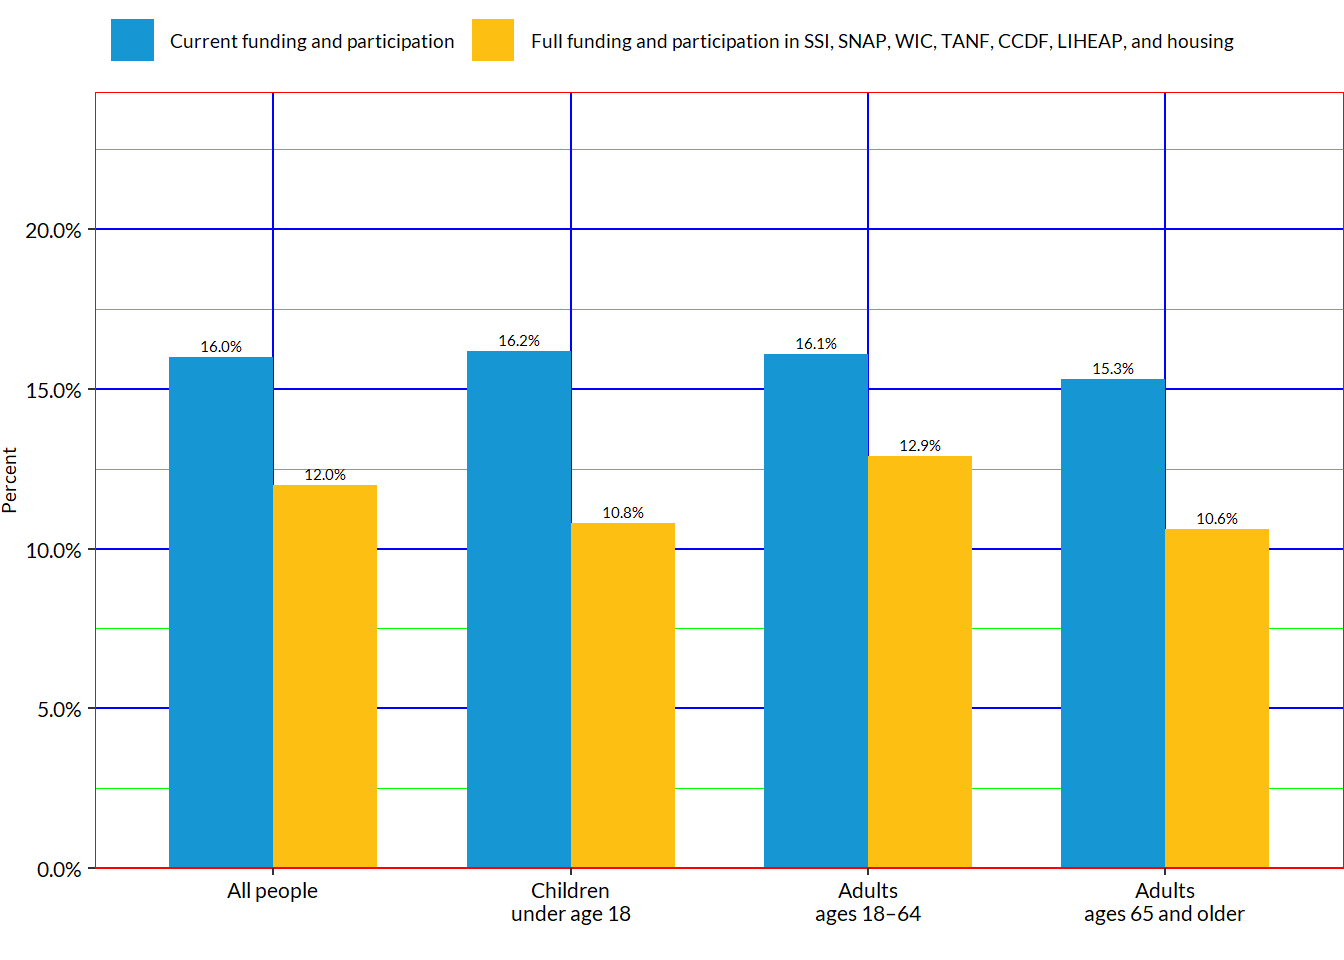
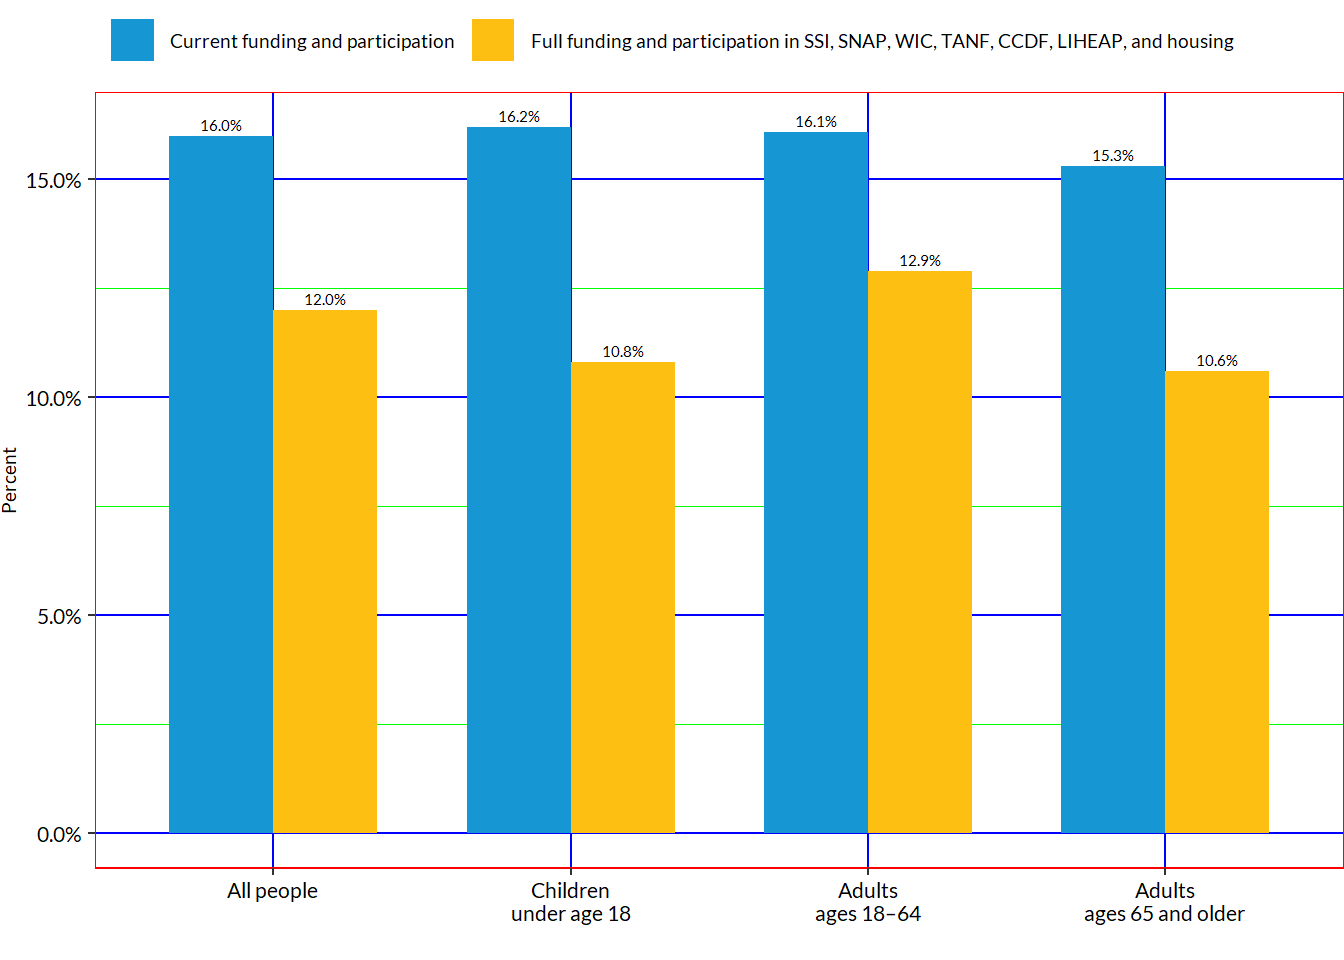
Correcting mistakes in R figures page

diff --git a/docs/editing-figures-in-r.html b/docs/editing-figures-in-r.html
@@ -504,8 +504,8 @@ Figure&nbsp;1
 <span id="cb7-9"><a href="#cb7-9"></a>            <span class="at">size =</span> <span class="dv">5</span>,</span>
 <span id="cb7-10"><a href="#cb7-10"></a>            <span class="at">color =</span> <span class="st">"red"</span>, </span>
 <span id="cb7-11"><a href="#cb7-11"></a>            <span class="at">family =</span> <span class="st">"Lato"</span>) <span class="sc">+</span></span>
-<span id="cb7-12"><a href="#cb7-12"></a>  <span class="fu">scale_y_continuous</span>(<span class="at">expand =</span> <span class="fu">expansion</span>(<span class="at">mult =</span> <span class="dv">0</span>),</span>
-<span id="cb7-13"><a href="#cb7-13"></a>                     <span class="at">limits =</span> <span class="fu">c</span>(<span class="dv">0</span>, <span class="fu">max</span>(df_fig2_long<span class="sc">$</span>Value) <span class="sc">*</span> <span class="fl">1.5</span>), </span>
+<span id="cb7-12"><a href="#cb7-12"></a>  <span class="fu">scale_y_continuous</span>(</span>
+<span id="cb7-13"><a href="#cb7-13"></a>                     <span class="at">limits =</span> <span class="fu">c</span>(<span class="dv">0</span>, <span class="fu">max</span>(df_fig2_long<span class="sc">$</span>Value) <span class="sc">*</span> <span class="dv">1</span>), </span>
 <span id="cb7-14"><a href="#cb7-14"></a>                     <span class="at">labels =</span> decimal_to_percentage) <span class="sc">+</span></span>
 <span id="cb7-15"><a href="#cb7-15"></a>  <span class="fu">theme_bw</span>() <span class="sc">+</span></span>
 <span id="cb7-16"><a href="#cb7-16"></a>  <span class="fu">theme</span>(<span class="at">legend.position =</span> <span class="st">"top"</span>, </span>

diff --git a/docs/editing-zotero-citations-in-r.html b/docs/editing-zotero-citations-in-r.html
@@ -166,12 +166,6 @@ background-size: cover;
 </li>
         <li class="sidebar-item">
   <div class="sidebar-item-container"> 
-  <a href="./editing-in-r-markdown.html" class="sidebar-item-text sidebar-link">
- <span class="menu-text">Editing in R Markdown</span></a>
-  </div>
-</li>
-        <li class="sidebar-item">
-  <div class="sidebar-item-container"> 
   <a href="./editing-zotero-citations-in-r.html" class="sidebar-item-text sidebar-link active">
  <span class="menu-text">Editing Zotero Citations in R</span></a>
   </div>

diff --git a/docs/about.html b/docs/about.html
@@ -166,12 +166,6 @@ background-size: cover;
 </li>
         <li class="sidebar-item">
   <div class="sidebar-item-container"> 
-  <a href="./editing-in-r-markdown.html" class="sidebar-item-text sidebar-link">
- <span class="menu-text">Editing in R Markdown</span></a>
-  </div>
-</li>
-        <li class="sidebar-item">
-  <div class="sidebar-item-container"> 
   <a href="./editing-zotero-citations-in-r.html" class="sidebar-item-text sidebar-link">
  <span class="menu-text">Editing Zotero Citations in R</span></a>
   </div>

diff --git a/docs/editing-in-latex.html b/docs/editing-in-latex.html
@@ -166,12 +166,6 @@ background-size: cover;
 </li>
         <li class="sidebar-item">
   <div class="sidebar-item-container"> 
-  <a href="./editing-in-r-markdown.html" class="sidebar-item-text sidebar-link">
- <span class="menu-text">Editing in R Markdown</span></a>
-  </div>
-</li>
-        <li class="sidebar-item">
-  <div class="sidebar-item-container"> 
   <a href="./editing-zotero-citations-in-r.html" class="sidebar-item-text sidebar-link">
  <span class="menu-text">Editing Zotero Citations in R</span></a>
   </div>

diff --git a/docs/using-github.html b/docs/using-github.html
@@ -166,12 +166,6 @@ background-size: cover;
 </li>
         <li class="sidebar-item">
   <div class="sidebar-item-container"> 
-  <a href="./editing-in-r-markdown.html" class="sidebar-item-text sidebar-link">
- <span class="menu-text">Editing in R Markdown</span></a>
-  </div>
-</li>
-        <li class="sidebar-item">
-  <div class="sidebar-item-container"> 
   <a href="./editing-zotero-citations-in-r.html" class="sidebar-item-text sidebar-link">
  <span class="menu-text">Editing Zotero Citations in R</span></a>
   </div>
